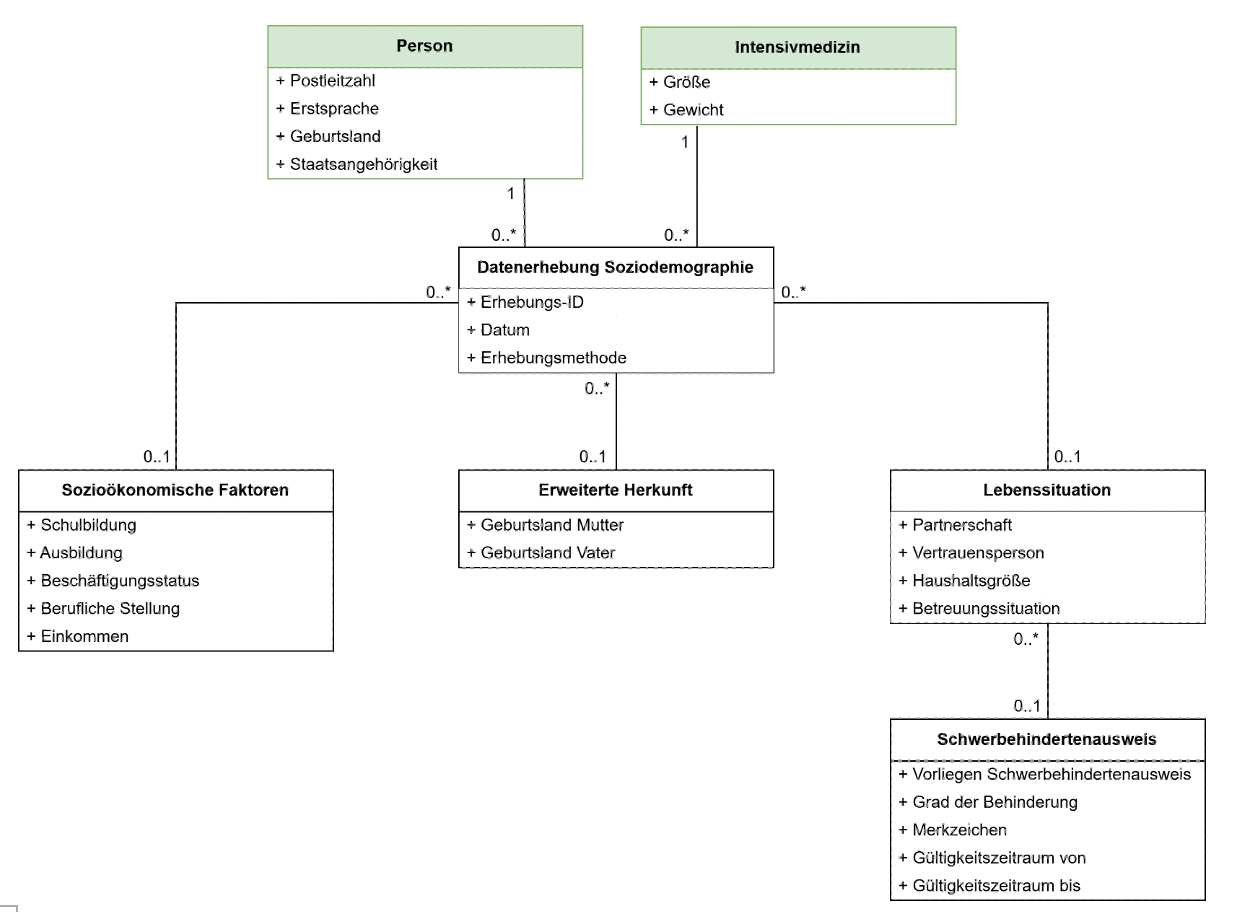
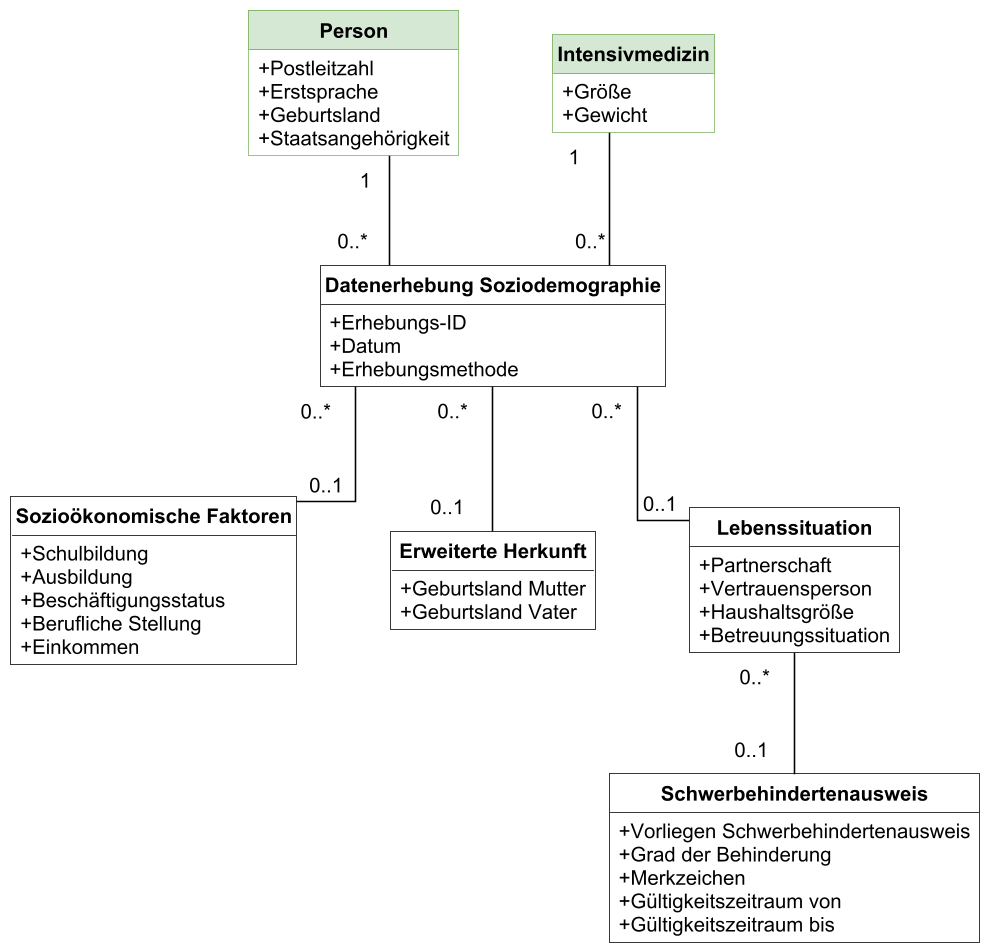
HDB-992: UML Diagrams - Übersetzung des Bilds (EN) und der Titels (DE)

diff --git a/input/pagecontent/datasets-and-descriptions.md b/input/pagecontent/datasets-and-descriptions.md
@@ -1,6 +1,6 @@
 The official, approved version of the information model for the Sociodemographic Data module is represented as a FHIR logical model; its element structure is rendered on the [Logical Model](logical-models.html) page.
 
-Note that the logical model aims purely at representing the data elements and their descriptions. The data types and cardinalities it uses are not to be regarded as binding; those are settled by the FHIR profiles. For every element within the logical model there is a mapping onto an element of a concrete FHIR resource.
+Note that the logical model aims purely at representing the data elements and their descriptions. The data types it uses are not to be regarded as binding; those are settled by the FHIR profiles. For every element within the logical model there is a mapping onto an element of a concrete FHIR resource.
 
 > The table below reproduces the information model in its original German wording and is therefore not translated. See [Translation Information](translationinfo.html) for details.
 {: .ig-highlight .ig-highlight-grey}

diff --git a/input/translations/de/pagecontent/datasets-and-descriptions.md b/input/translations/de/pagecontent/datasets-and-descriptions.md
@@ -1,6 +1,6 @@
 Die offizielle, freigegebene Version des Informationsmodells für das Modul Soziodemographische Daten wird als FHIR Logical Model dargestellt; seine Elementstruktur ist auf der Seite [Logisches Modell](logical-models.html) abgebildet.
 
-Zu beachten ist, dass das logische Modell ausschließlich darauf abzielt, die Datenelemente und ihre Beschreibungen darzustellen. Die verwendeten Datentypen und Kardinalitäten sind nicht als verbindlich anzusehen; diese werden durch die FHIR-Profile festgelegt. Für jedes Element im logischen Modell existiert eine Zuordnung zu einem Element einer konkreten FHIR-Ressource.
+Zu beachten ist, dass das logische Modell ausschließlich darauf abzielt, die Datenelemente und ihre Beschreibungen darzustellen. Die verwendeten Datentypen sind nicht als verbindlich anzusehen; diese werden durch die FHIR-Profile festgelegt. Für jedes Element im logischen Modell existiert eine Zuordnung zu einem Element einer konkreten FHIR-Ressource.
 
 <table class="grid">
 <thead>

diff --git a/input/pagecontent/uml-diagrams.md b/input/pagecontent/uml-diagrams.md
@@ -1,7 +1,9 @@
 This page provides a UML class diagram for the logical model of the Sociodemographic Data module. The diagram illustrates the relationships between the different data elements and classes.
 
+Note that the cardinalities shown between the classes are not to be regarded as binding; those are settled by the FHIR profiles.
+
 The following diagram shows the logical structure of the Sociodemographic Data module:
 <div style="text-align: center; margin: 20px 0;">
-<img src="sdd-uml.png" alt="Sociodemographic Data UML diagram"/>
+<img src="sdd-uml-en.png" alt="Sociodemographic Data UML diagram"/>
 </div>
 ---

diff --git a/input/translations/de/pagecontent/uml-diagrams.md b/input/translations/de/pagecontent/uml-diagrams.md
@@ -1,5 +1,7 @@
 Diese Seite enthält ein UML-Klassendiagramm für das logische Modell des Moduls Soziodemographische Daten. Das Diagramm veranschaulicht die Beziehungen zwischen den verschiedenen Datenelementen und Klassen.
 
+Zu beachten ist, dass die zwischen den Klassen dargestellten Kardinalitäten nicht als verbindlich anzusehen sind; diese werden durch die FHIR-Profile festgelegt.
+
 Das folgende Diagramm zeigt die logische Struktur des Moduls Soziodemographische Daten:
 <div style="text-align: center; margin: 20px 0;">
 <img src="sdd-uml.png" alt="UML-Diagramm Soziodemographische Daten"/>
